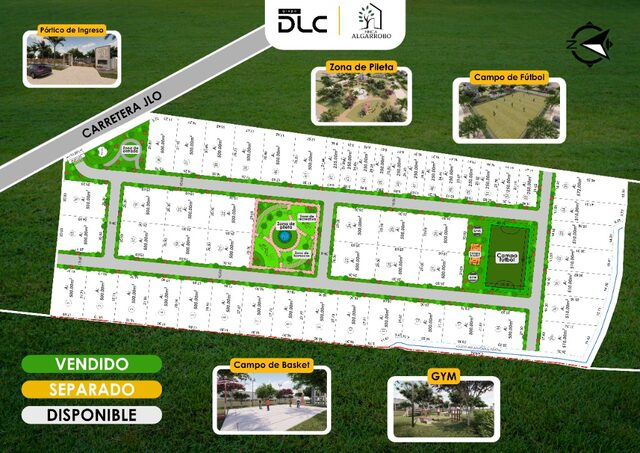
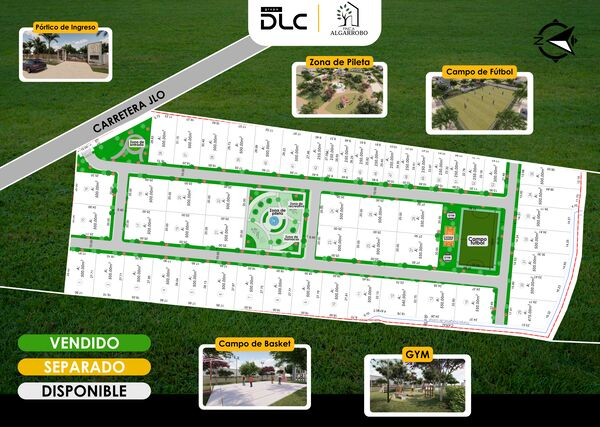
Plano de Finca Algarrobo actualizado
Nueva versión del plano de lotes (2400 px) con su miniatura y relación de aspecto ajustada.

diff --git a/components/sections/project-plan.tsx b/components/sections/project-plan.tsx
@@ -122,7 +122,7 @@ export function ProjectPlan() {
             aria-label="Ampliar plano del proyecto"
             className="group relative mx-auto block w-full max-w-5xl cursor-zoom-in overflow-hidden rounded-[1.35rem] bg-[#0c0b0a] shadow-elevated ring-1 ring-black/[0.05] transition-transform duration-500 hover:-translate-y-1"
           >
-            <div className="relative aspect-[1024/724] w-full">
+            <div className="relative aspect-[2400/1708] w-full">
               <ProjectImage
                 src={project.plan}
                 alt={project.planAlt}
@@ -174,7 +174,7 @@ export function ProjectPlan() {
             >
               <div
                 className="relative mx-auto w-full"
-                style={{ aspectRatio: "1024 / 724" }}
+                style={{ aspectRatio: "2400 / 1708" }}
               >
                 <ProjectImage
                   src={project.plan}
